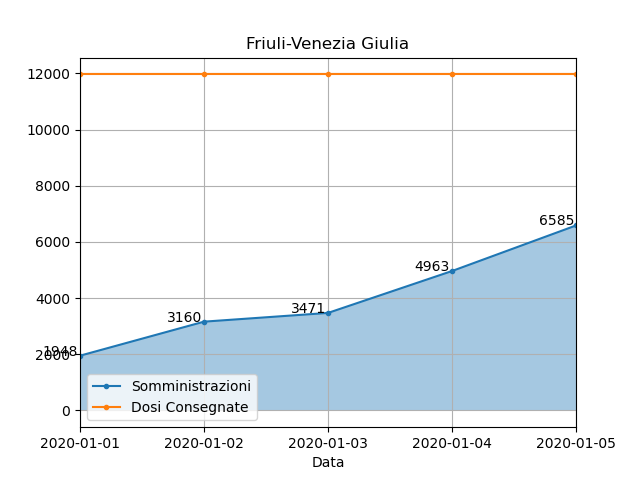
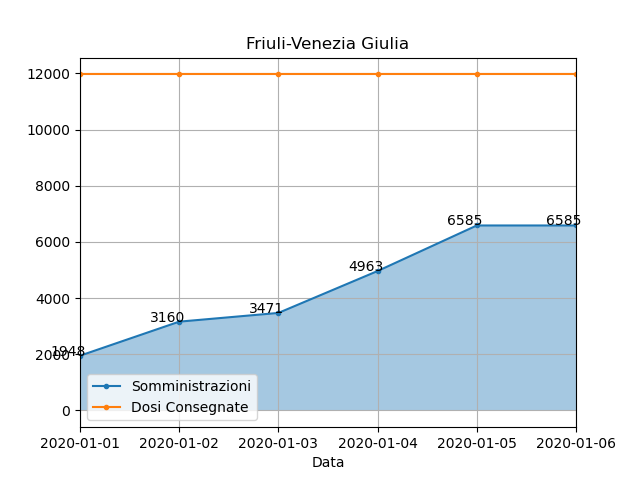
06 january, first update

diff --git a/main.py b/main.py
@@ -2,7 +2,7 @@ import conversione_csv
 import regions_elaboration
 import plot_regions
 
-DATE = '05_01'
+DATE = '06_01'
 
 INPUT_PATH = 'E:/vaccinazione_COVID19/andamento_giornaliero_immagine/'
 DEST_PATH = 'E:/vaccinazione_COVID19/andamento_giornaliero/'
